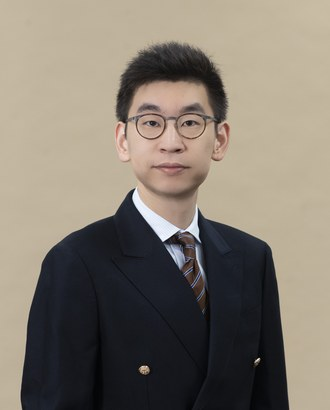
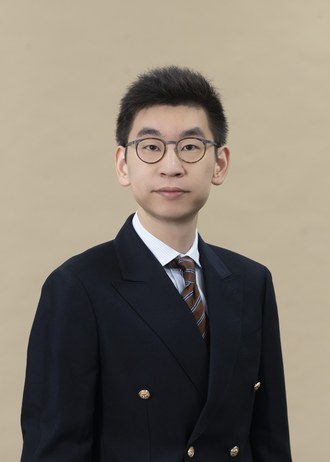
Show the full uncropped headshot (5:7 portrait box)

diff --git a/index.html b/index.html
@@ -66,7 +66,7 @@
 
     <link rel="preload" href="/fonts/Spectral-Regular.woff2" as="font" type="font/woff2" crossorigin>
     <link rel="preload" href="/fonts/Spectral-SemiBold.woff2" as="font" type="font/woff2" crossorigin>
-    <link rel="stylesheet" href="/styles.css?v=0f7081f4">
+    <link rel="stylesheet" href="/styles.css?v=c0f8bb45">
 
     <script>
       // The site is dark by default (see styles.css). This applies a saved
@@ -97,7 +97,7 @@
 </nav>
 
 <header class="hero">
-    <img class="portrait" src="/images/headshot.jpg" width="165" height="205" fetchpriority="high" decoding="async" alt="Leonard Yang Liu">
+    <img class="portrait" src="/images/headshot.jpg" width="165" height="231" fetchpriority="high" decoding="async" alt="Leonard Yang Liu">
     <div class="hero-text">
         <h1>Leonard Yang Liu</h1>
         <p class="affil">

diff --git a/styles.css b/styles.css
@@ -205,7 +205,7 @@ html.js .theme-toggle { display: inline-flex; }
 }
 .portrait {
     width: 165px;
-    height: 205px;
+    height: 231px;
     object-fit: cover;
     object-position: top center;
     flex-shrink: 0;
@@ -466,7 +466,7 @@ main section.reveal.in { opacity: 1; transform: none; }
         flex-direction: column;
         gap: 1.25rem;
     }
-    .portrait { width: 130px; height: 165px; }
+    .portrait { width: 130px; height: 182px; }
     .hero h1 { font-size: 1.65rem; }
     .evals th, .evals td { padding-right: 1rem; }
 }

diff --git a/hobbies/classical-music/index.html b/hobbies/classical-music/index.html
@@ -33,7 +33,7 @@
 
     <link rel="preload" href="/fonts/Spectral-Regular.woff2" as="font" type="font/woff2" crossorigin>
     <link rel="preload" href="/fonts/Spectral-SemiBold.woff2" as="font" type="font/woff2" crossorigin>
-    <link rel="stylesheet" href="/styles.css?v=0f7081f4">
+    <link rel="stylesheet" href="/styles.css?v=c0f8bb45">
 
     <script>
       // The site is dark by default (see styles.css). This applies a saved

diff --git a/hobbies/pc-building/index.html b/hobbies/pc-building/index.html
@@ -33,7 +33,7 @@
 
     <link rel="preload" href="/fonts/Spectral-Regular.woff2" as="font" type="font/woff2" crossorigin>
     <link rel="preload" href="/fonts/Spectral-SemiBold.woff2" as="font" type="font/woff2" crossorigin>
-    <link rel="stylesheet" href="/styles.css?v=0f7081f4">
+    <link rel="stylesheet" href="/styles.css?v=c0f8bb45">
 
     <script>
       // The site is dark by default (see styles.css). This applies a saved

diff --git a/research/index.html b/research/index.html
@@ -33,7 +33,7 @@
 
     <link rel="preload" href="/fonts/Spectral-Regular.woff2" as="font" type="font/woff2" crossorigin>
     <link rel="preload" href="/fonts/Spectral-SemiBold.woff2" as="font" type="font/woff2" crossorigin>
-    <link rel="stylesheet" href="/styles.css?v=0f7081f4">
+    <link rel="stylesheet" href="/styles.css?v=c0f8bb45">
 
     <script>
       // The site is dark by default (see styles.css). This applies a saved

diff --git a/teaching/index.html b/teaching/index.html
@@ -33,7 +33,7 @@
 
     <link rel="preload" href="/fonts/Spectral-Regular.woff2" as="font" type="font/woff2" crossorigin>
     <link rel="preload" href="/fonts/Spectral-SemiBold.woff2" as="font" type="font/woff2" crossorigin>
-    <link rel="stylesheet" href="/styles.css?v=0f7081f4">
+    <link rel="stylesheet" href="/styles.css?v=c0f8bb45">
 
     <script>
       // The site is dark by default (see styles.css). This applies a saved

diff --git a/_pages/index.html b/_pages/index.html
@@ -1,5 +1,5 @@
 <header class="hero">
-    <img class="portrait" src="/images/headshot.jpg" width="165" height="205" fetchpriority="high" decoding="async" alt="Leonard Yang Liu">
+    <img class="portrait" src="/images/headshot.jpg" width="165" height="231" fetchpriority="high" decoding="async" alt="Leonard Yang Liu">
     <div class="hero-text">
         <h1>Leonard Yang Liu</h1>
         <p class="affil">
